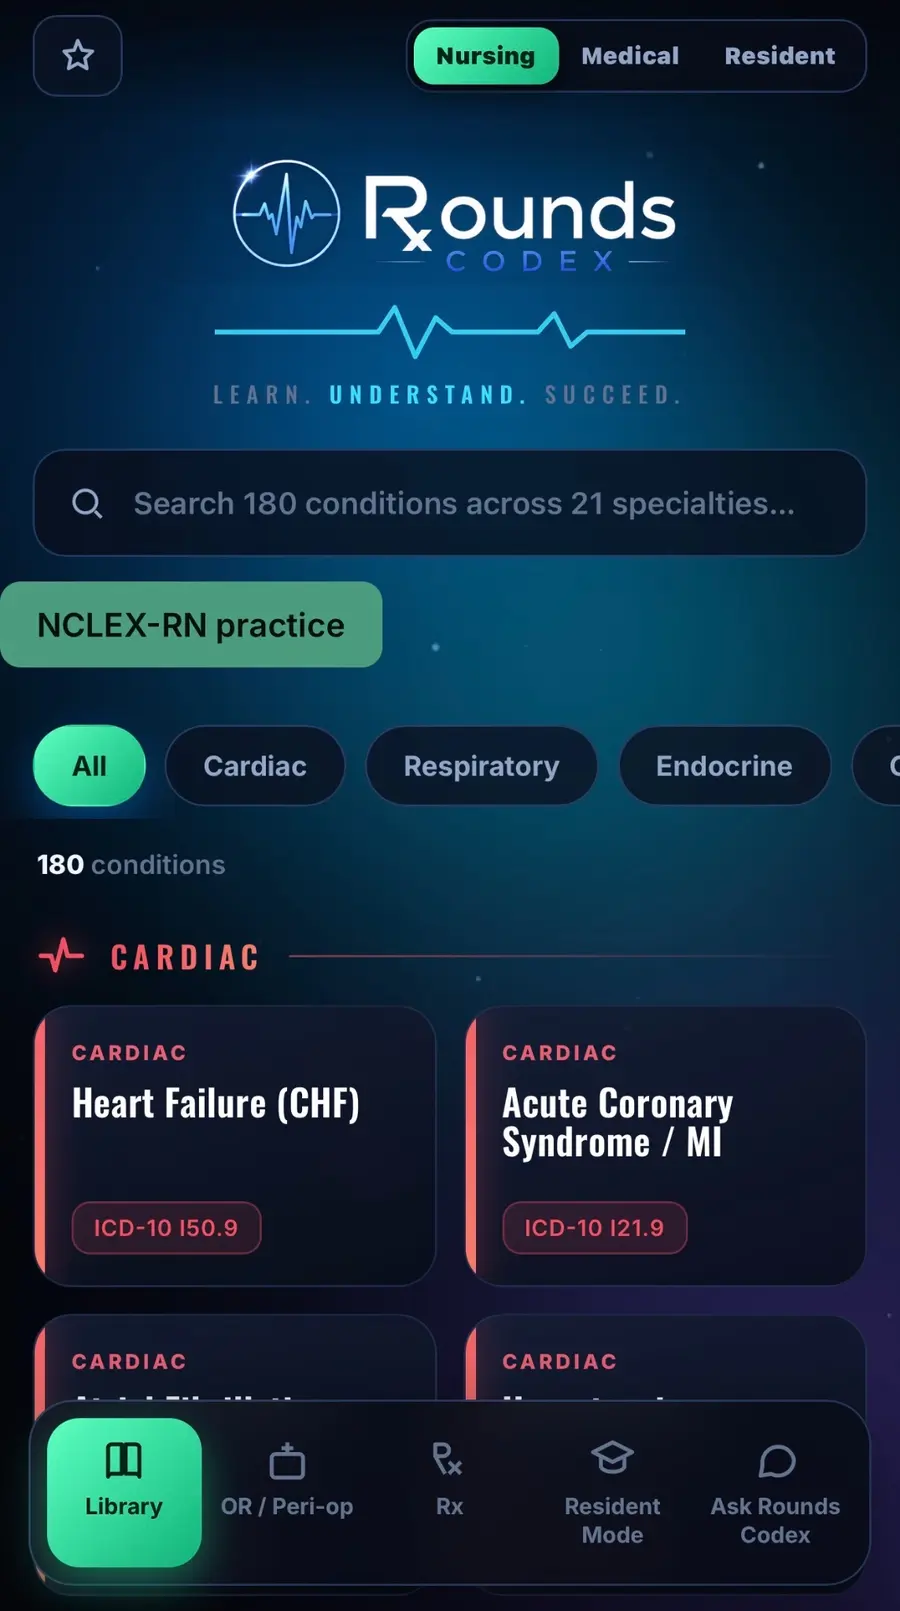
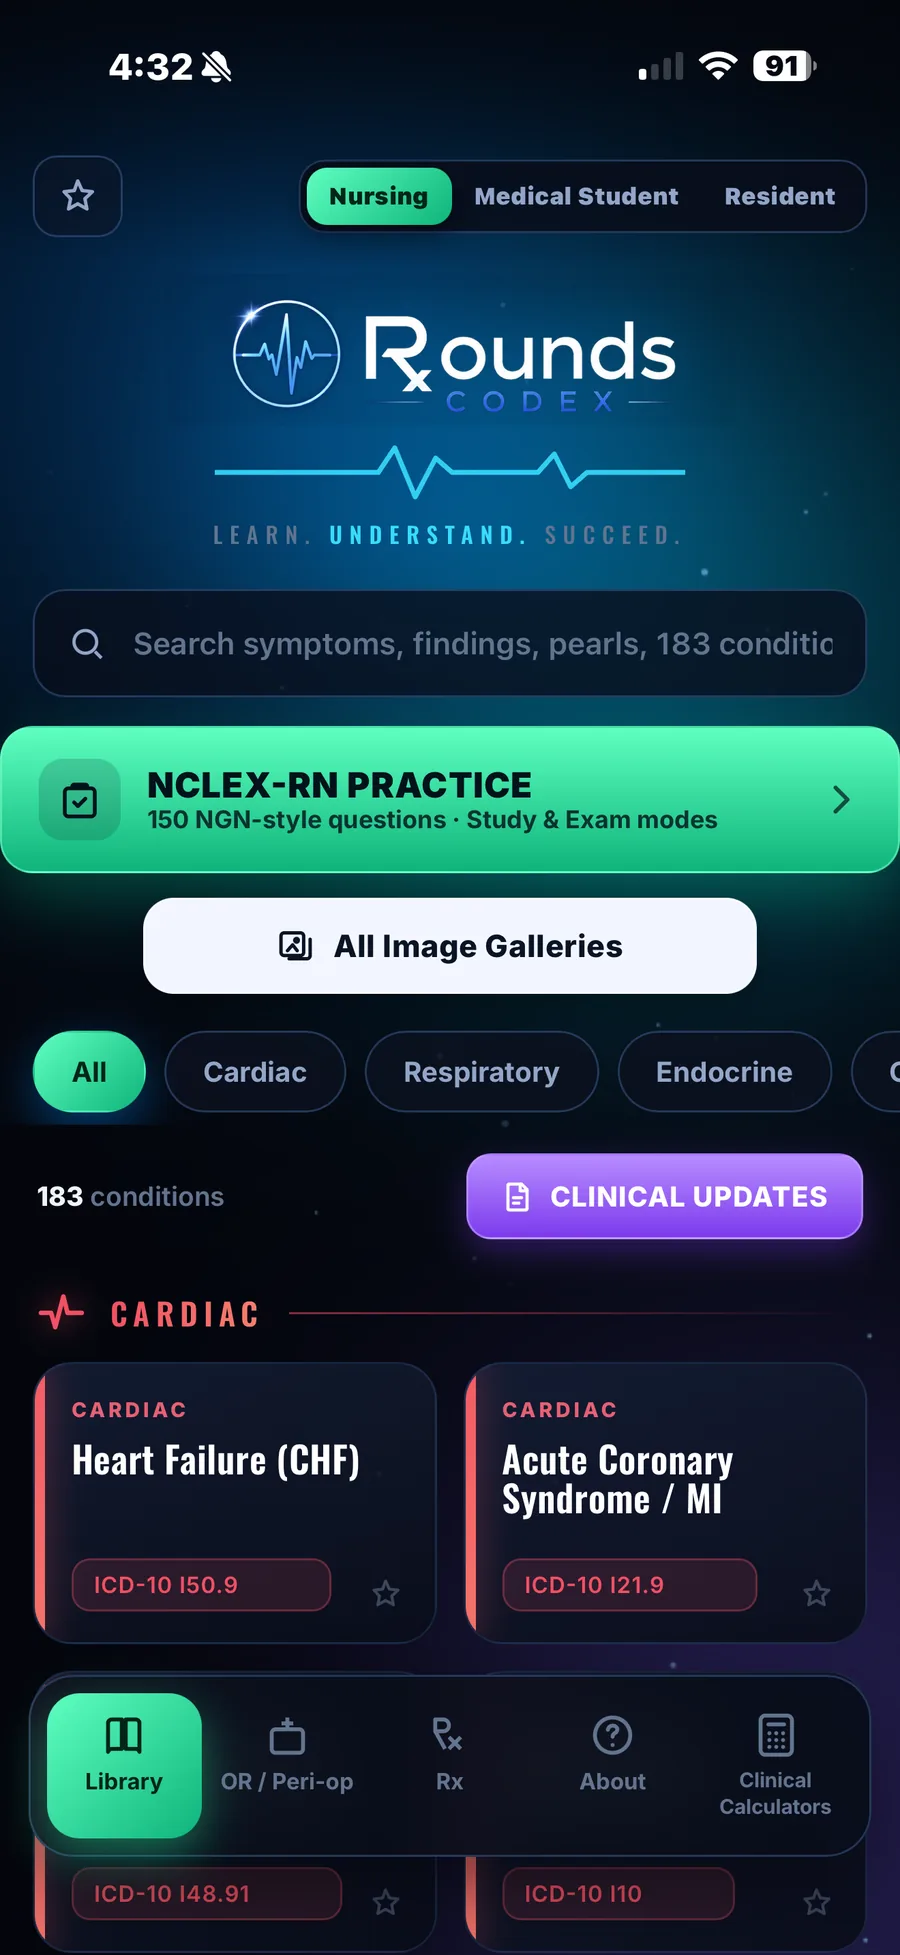
Fix mobile hero: single clean phone (was collapsing to tiny pills); refresh mockup to 183
- Mobile: show one properly-sized centered phone instead of 3 flex-shrunk slivers;
  remove empty gap, flatten 3D tilt
- Swap hero library mockup to the fresh 183-conditions capture (web-optimized webp)

diff --git a/landing/index.html b/landing/index.html
@@ -108,7 +108,15 @@ footer a{color:#8ea6c6;text-decoration:underline;text-underline-offset:2px}
   background:#122342a1;border:1px solid #58a6ff38;text-decoration:none;transition:transform .15s,background .15s,color .15s,border-color .15s}
 .social a:hover{transform:translateY(-2px);background:#18305a;color:#fff;border-color:#7ab4ff99}
 .social svg{width:19px;height:19px;fill:currentColor;display:block}
-@media(max-width:640px){.stage{min-height:300px}.dl-row{gap:.7rem}}
+@media(max-width:640px){
+  .dl-row{gap:.7rem}
+  .stage{min-height:auto;margin-top:2.4rem;gap:0;align-items:center}
+  .stage:before{inset:2% 14% 0}
+  .phone{flex:0 0 auto;width:60vw;height:120vw;aspect-ratio:auto;border-radius:34px;padding:7px;transform:none}
+  .phone img{border-radius:27px}
+  .phone.side{display:none}
+  .ecg{margin-top:1.8rem}
+}
 </style>
 
 <!-- ===== Structured data (SEO + AI answer engines) =====================
